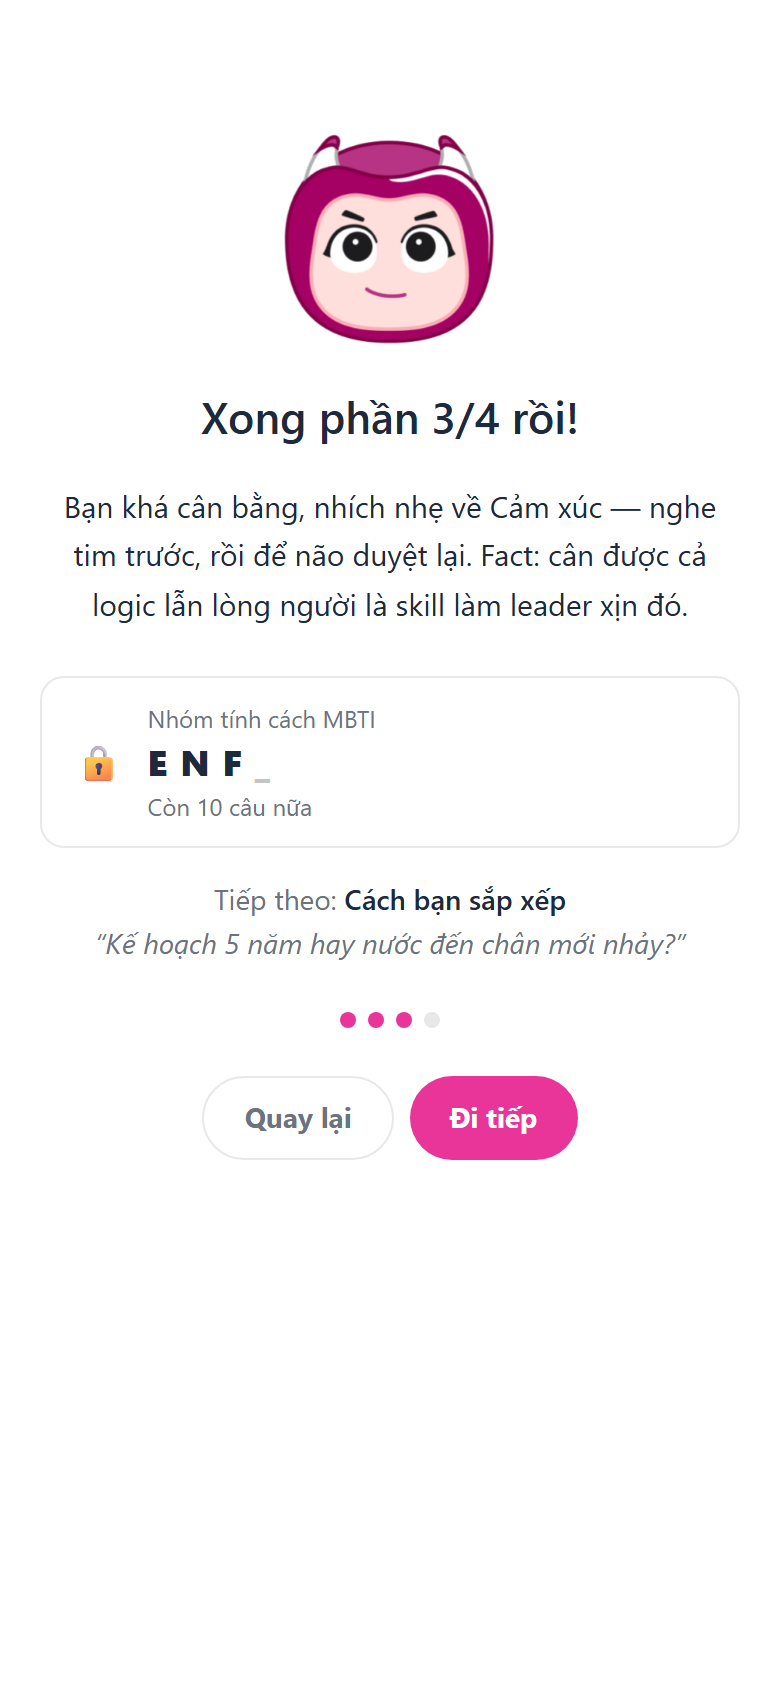
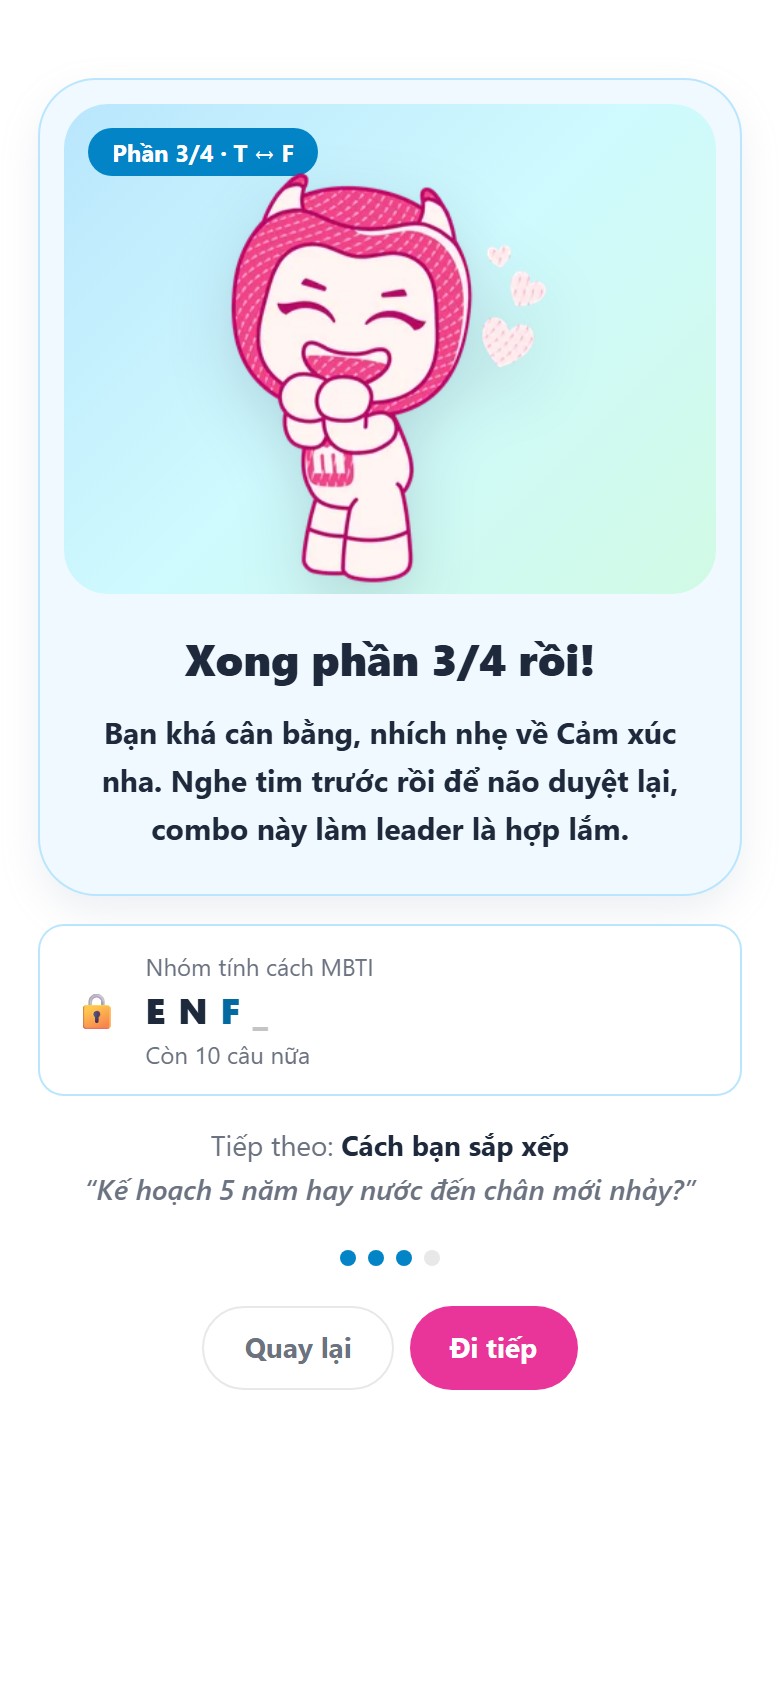
feat(interlude): themed per-part card, full mascot, bold Gen Z copy
Each break screen now wears the landing card of the part just finished:
same bg, ring, well gradient, badge ("Phần n/4 · E ↔ I") and full-body
mascot, which pops in and floats; the copy fades up after it (all off
under reduced motion). The new letter in the MBTI box and the progress
dots take the part colour. Conclusions are bold and rewritten in a Gen Z
voice with no dashes between sentences (pinned by a test); the review
doc's tables are regenerated from interludeCopy.ts.

diff --git a/web/app/personal-definition/_components/InterludeView.tsx b/web/app/personal-definition/_components/InterludeView.tsx
@@ -4,8 +4,9 @@ import { Button } from "@/components/worker/ui/Button";
 import { PART_COUNT, PART_SIZE, PART_TITLES } from "../_lib/parts";
 import { QUESTION_COUNT } from "../_lib/likert";
 import { PART_HOOKS, RESULT_HOOK } from "../_lib/interludeCopy";
+import { PART_THEMES } from "../_lib/partTheme";
 import type { NumerologyResult, ZodiacResult } from "../_lib/types";
-import { FACES, srcOf, type FaceName } from "../_lib/mascot";
+import { srcOf } from "../_lib/mascot";
 import styles from "./mascot.module.css";
 
 type Props = {
@@ -31,7 +32,7 @@ function firstSentence(text: string): string {
 
 function TeaserRow({ badge, label, value }: { badge: string; label: string; value: string }) {
   return (
-    <div className="flex items-center gap-3 border border-worker-border rounded-worker-md px-4 py-3">
+    <div className="flex items-center gap-3 border border-worker-border rounded-worker-md px-4 py-3 bg-white">
       <span className="text-lg text-worker-primary shrink-0" aria-hidden>{badge}</span>
       <div className="flex flex-col text-left">
         <span className="text-xs text-worker-text-secondary">{label}</span>
@@ -42,37 +43,53 @@ function TeaserRow({ badge, label, value }: { badge: string; label: string; valu
 }
 
 /*
- * Colour rule: copy is neutral (text-primary / text-secondary). Pink is kept
- * for the primary button, the progress dots and one small accent — the
- * teaser badges (★, life-path number).
+ * Each break screen wears the landing card of the part just finished —
+ * same bg, ring, well gradient, badge and full-body mascot (PART_THEMES) —
+ * so "the card you tapped" and "the part you finished" read as one thing.
+ * Theme colours are runtime values, applied via inline style. Copy stays
+ * neutral and bold; pink remains on the primary button and teaser badges.
  */
-
-/** One mascot face per boundary, index = part just finished. */
-const FACE_BY_PART: FaceName[] = ["laugh", "excited", "confident", "grin"];
-
 export function InterludeView({ part, summary, letters, preview, onContinue, onBack }: Props) {
-  const face = FACE_BY_PART[part] ?? FACE_BY_PART[FACE_BY_PART.length - 1]!;
+  const t = PART_THEMES[part] ?? PART_THEMES[PART_THEMES.length - 1]!;
   const isLast = part >= PART_COUNT - 1;
   const known = letters.filter(Boolean).length;
   const remaining = QUESTION_COUNT - (part + 1) * PART_SIZE;
 
   return (
-    <div className="flex flex-col items-center text-center gap-4 py-10">
-      <img
-        src={srcOf(FACES[face])}
-        alt=""
-        className={`w-28 h-28 object-contain ${styles.bounceIn}`}
-      />
+    <div className="flex flex-col items-center text-center gap-4 py-4">
+      <section
+        data-testid="interlude-card"
+        className="w-full p-3 rounded-[28px]"
+        style={{ backgroundColor: t.bg, boxShadow: `0 0 0 1px ${t.ring}, 0 8px 20px rgba(148,163,184,.18)` }}
+      >
+        <div
+          className="relative aspect-[4/3] rounded-[22px] overflow-hidden flex items-end justify-center"
+          style={{ background: t.well }}
+        >
+          <span
+            className="absolute left-3 top-3 px-3 py-1 rounded-full text-xs font-bold"
+            style={{ backgroundColor: t.badge, color: t.badgeInk }}
+          >
+            Phần {part + 1}/{PART_COUNT} · {t.letters[0]} ↔ {t.letters[1]}
+          </span>
+          <img
+            src={srcOf(t.mascot)}
+            alt=""
+            className={`h-[86%] w-auto object-contain drop-shadow-[0_12px_16px_rgba(15,23,42,.14)] ${styles.popIn}`}
+          />
+        </div>
 
-      <h2 className="text-[22px] font-semibold text-worker-text-primary">
-        Xong phần {part + 1}/{PART_COUNT} rồi!
-      </h2>
+        <div className={`px-2 pt-4 pb-2 ${styles.fadeUp}`}>
+          <h2 className="text-[22px] font-extrabold text-worker-text-primary">
+            Xong phần {part + 1}/{PART_COUNT} rồi!
+          </h2>
+          <p data-testid="interlude-line" className="mt-2 text-[15px] leading-relaxed font-bold text-worker-text-primary">
+            {summary}
+          </p>
+        </div>
+      </section>
 
-      <p data-testid="interlude-line" className="text-[15px] leading-relaxed text-worker-text-primary max-w-[340px]">
-        {summary}
-      </p>
-
-      <div className="w-full flex flex-col gap-2 mt-2">
+      <div className={`w-full flex flex-col gap-2 ${styles.fadeUpLate}`}>
         {preview && (
           <div data-testid="teaser" className="flex flex-col gap-2">
             <TeaserRow
@@ -92,7 +109,8 @@ export function InterludeView({ part, summary, letters, preview, onContinue, onB
             mascot, breakdown) stays locked until the result screen. */}
         <div
           data-testid="teaser-locked"
-          className="flex items-center gap-3 border border-worker-border rounded-worker-md px-4 py-3"
+          className="flex items-center gap-3 rounded-worker-md px-4 py-3 bg-white"
+          style={{ boxShadow: `0 0 0 1px ${t.ring}` }}
         >
           <span className="text-lg shrink-0" aria-hidden>{isLast ? "🔓" : "🔒"}</span>
           <div className="flex flex-col text-left">
@@ -103,7 +121,12 @@ export function InterludeView({ part, summary, letters, preview, onContinue, onB
               className="flex gap-1.5 text-lg font-extrabold tracking-wide text-worker-text-primary"
             >
               {letters.map((l, i) => (
-                <span key={i} aria-hidden className={l ? "" : "text-worker-text-disabled"}>
+                <span
+                  key={i}
+                  aria-hidden
+                  className={l ? "" : "text-worker-text-disabled"}
+                  style={i === part && l ? { color: t.chip } : undefined}
+                >
                   {l ?? "_"}
                 </span>
               ))}
@@ -113,31 +136,32 @@ export function InterludeView({ part, summary, letters, preview, onContinue, onB
             </span>
           </div>
         </div>
+
+        {/* The hook: what the next screen promises, to pull the next tap. */}
+        <div data-testid="next-hook" className="flex flex-col gap-0.5 mt-2 mx-auto max-w-[320px]">
+          <p className="text-sm text-worker-text-secondary">
+            Tiếp theo:{" "}
+            <span className="font-bold text-worker-text-primary">
+              {isLast ? "Kết quả của bạn" : PART_TITLES[part + 1]}
+            </span>
+          </p>
+          <p className="text-sm font-semibold italic text-worker-text-secondary">
+            {isLast ? RESULT_HOOK : `“${PART_HOOKS[part + 1]}”`}
+          </p>
+        </div>
       </div>
 
-      {/* The hook: what the next screen promises, to pull the next tap. */}
-      <div data-testid="next-hook" className="flex flex-col gap-0.5 max-w-[320px]">
-        <p className="text-sm text-worker-text-secondary">
-          Tiếp theo:{" "}
-          <span className="font-semibold text-worker-text-primary">
-            {isLast ? "Kết quả của bạn" : PART_TITLES[part + 1]}
-          </span>
-        </p>
-        <p className="text-sm italic text-worker-text-secondary">
-          {isLast ? RESULT_HOOK : `“${PART_HOOKS[part + 1]}”`}
-        </p>
-      </div>
-
-      <div className="flex items-center gap-1.5 mt-2" aria-hidden>
+      <div className="flex items-center gap-1.5 mt-1" aria-hidden>
         {Array.from({ length: PART_COUNT }, (_, i) => (
           <span
             key={i}
-            className={`w-2 h-2 rounded-full ${i <= part ? "bg-worker-primary" : "bg-worker-border"}`}
+            className="w-2 h-2 rounded-full"
+            style={{ backgroundColor: i <= part ? t.badge : "var(--color-worker-border)" }}
           />
         ))}
       </div>
 
-      <div className="flex gap-2 mt-2">
+      <div className="flex gap-2 mt-1">
         <Button variant="secondary" onClick={onBack}>
           Quay lại
         </Button>

diff --git a/web/app/personal-definition/_lib/interludeCopy.ts b/web/app/personal-definition/_lib/interludeCopy.ts
@@ -3,41 +3,42 @@
  * edit both together. `{n}` is the number of the part's 10 answers that
  * leaned toward the revealed letter (only used on a clear lean, n ≥ 7).
  *
- * Each line: one conclusion + one "fact". Facts restate the pole
- * definitions in questions.json; they are not statistics.
+ * Voice: Gen Z, two short sentences, no dashes between them (pinned by a
+ * test). The "fun fact" restates the pole definitions in questions.json;
+ * none of it is a statistic.
  */
 export const SUMMARY_COPY: Record<string, { clear: string; balanced: string }> = {
   E: {
-    clear: "Bạn nghiêng về Hướng ngoại ({n}/10) — đông người là pin đầy. Fact: dân Hướng ngoại hay nghĩ bằng miệng, nói ra rồi mới thấy rõ ý mình.",
-    balanced: "Bạn khá cân bằng, nhích nhẹ về Hướng ngoại — vui được, chill một mình cũng được. Fact: kiểu \"tuỳ mood\" này có tên hẳn hoi đó: ambivert.",
+    clear: "Bạn nghiêng hẳn về Hướng ngoại ({n}/10), đông người là pin full vạch. Fun fact: hội Hướng ngoại hay vừa nói vừa nghĩ, nói ra rồi mới biết mình nghĩ gì.",
+    balanced: "Bạn khá cân bằng, nhích nhẹ về Hướng ngoại nha. Quẩy được mà chill một mình cũng ok, kiểu này người ta gọi là ambivert đó.",
   },
   I: {
-    clear: "Bạn nghiêng về Hướng nội ({n}/10) — sạc pin bằng thời gian một mình. Fact: Hướng nội không phải là ngại người, chỉ là bạn nghĩ xong rồi mới nói.",
-    balanced: "Bạn khá cân bằng, nhích nhẹ về Hướng nội — đi tiệc được, nhưng về nhà vẫn thấy sướng hơn. Fact: kiểu \"tuỳ mood\" này có tên hẳn hoi đó: ambivert.",
+    clear: "Bạn nghiêng hẳn về Hướng nội ({n}/10), sạc pin bằng giờ me-time. Fun fact: hướng nội không phải là ngại người đâu, chỉ là bạn thích nghĩ kỹ rồi mới nói.",
+    balanced: "Bạn khá cân bằng, nhích nhẹ về Hướng nội nha. Đi tiệc vẫn vui nhưng về nhà nằm mới là chân ái, kiểu này người ta gọi là ambivert đó.",
   },
   S: {
-    clear: "Bạn nghiêng về Thực tế ({n}/10) — tin những gì thấy được, kiểm chứng được. Fact: team Thực tế là kiểu hỏi \"nguồn đâu?\" trước khi tin một cái tin hot.",
-    balanced: "Bạn khá cân bằng, nhích nhẹ về Thực tế — chân vẫn chạm đất nhưng đầu thỉnh thoảng bay. Fact: bạn đọc được cả chi tiết lẫn \"ý ngầm\", combo này hiếm phết.",
+    clear: "Bạn nghiêng hẳn về Thực tế ({n}/10), mắt thấy tai nghe mới tin. Fun fact: thấy tin hot là bạn hỏi \"nguồn đâu?\" đầu tiên.",
+    balanced: "Bạn khá cân bằng, nhích nhẹ về Thực tế nha. Chân chạm đất mà đầu thỉnh thoảng vẫn bay, đọc được cả chi tiết lẫn ý ngầm luôn.",
   },
   N: {
-    clear: "Bạn nghiêng về Trực giác ({n}/10) — thấy được bức tranh lớn sau mấy con số. Fact: team Trực giác hay hỏi \"nếu như…\", đầu lúc nào cũng mở 10 tab.",
-    balanced: "Bạn khá cân bằng, nhích nhẹ về Trực giác — mơ to nhưng vẫn check lại cho chắc. Fact: bạn đọc được cả chi tiết lẫn \"ý ngầm\", combo này hiếm phết.",
+    clear: "Bạn nghiêng hẳn về Trực giác ({n}/10), nhìn đâu cũng thấy bức tranh lớn. Fun fact: não bạn lúc nào cũng mở sẵn 10 tab \"lỡ như thì sao\".",
+    balanced: "Bạn khá cân bằng, nhích nhẹ về Trực giác nha. Mơ to nhưng vẫn check kỹ, đọc được cả chi tiết lẫn ý ngầm luôn.",
   },
   T: {
-    clear: "Bạn nghiêng về Lý trí ({n}/10) — não nhảy số trước khi tim kịp lên tiếng. Fact: Lý trí không có nghĩa là lạnh lùng, bạn chỉ muốn mọi thứ hợp lý và công bằng.",
-    balanced: "Bạn khá cân bằng, nhích nhẹ về Lý trí — phân tích kỹ nhưng vẫn để ý cảm xúc người khác. Fact: cân được cả logic lẫn lòng người là skill làm leader xịn đó.",
+    clear: "Bạn nghiêng hẳn về Lý trí ({n}/10), não nhảy số nhanh hơn tim. Fun fact: lý trí không phải lạnh lùng đâu, bạn chỉ muốn mọi thứ hợp lý và công bằng.",
+    balanced: "Bạn khá cân bằng, nhích nhẹ về Lý trí nha. Phân tích kỹ mà vẫn để ý cảm xúc người khác, combo này làm leader là hợp lắm.",
   },
   F: {
-    clear: "Bạn nghiêng về Cảm xúc ({n}/10) — quyết gì cũng nghĩ tới người trong cuộc trước. Fact: Cảm xúc không phải là dễ khóc, mà là bạn chọn theo giá trị mình tin.",
-    balanced: "Bạn khá cân bằng, nhích nhẹ về Cảm xúc — nghe tim trước, rồi để não duyệt lại. Fact: cân được cả logic lẫn lòng người là skill làm leader xịn đó.",
+    clear: "Bạn nghiêng hẳn về Cảm xúc ({n}/10), quyết gì cũng nghĩ tới người trong cuộc trước. Fun fact: cảm xúc không phải mau nước mắt, mà là bạn sống theo giá trị mình tin.",
+    balanced: "Bạn khá cân bằng, nhích nhẹ về Cảm xúc nha. Nghe tim trước rồi để não duyệt lại, combo này làm leader là hợp lắm.",
   },
   J: {
-    clear: "Bạn nghiêng về Nguyên tắc ({n}/10) — có kế hoạch là thấy yên tâm. Fact: gạch xong một dòng to-do list là kiểu sướng rất riêng của team Nguyên tắc.",
-    balanced: "Bạn khá cân bằng, nhích nhẹ về Nguyên tắc — thích có plan nhưng lệch plan cũng không sập. Fact: có plan A mà vẫn sẵn plan B là kiểu sống an toàn nhất.",
+    clear: "Bạn nghiêng hẳn về Nguyên tắc ({n}/10), có plan rõ ràng mới thấy yên tâm. Fun fact: gạch xong một dòng to-do list là đủ làm bạn vui cả buổi.",
+    balanced: "Bạn khá cân bằng, nhích nhẹ về Nguyên tắc nha. Thích có plan nhưng lệch plan cũng không sập, lúc nào cũng có sẵn plan B.",
   },
   P: {
-    clear: "Bạn nghiêng về Linh hoạt ({n}/10) — nước đến chân mới nhảy, mà nhảy vẫn đẹp. Fact: team Linh hoạt thích để ngỏ lựa chọn, vì biết đâu có option xịn hơn.",
-    balanced: "Bạn khá cân bằng, nhích nhẹ về Linh hoạt — ứng biến giỏi nhưng việc quan trọng vẫn lên lịch. Fact: có plan A mà vẫn sẵn plan B là kiểu sống an toàn nhất.",
+    clear: "Bạn nghiêng hẳn về Linh hoạt ({n}/10), nước đến chân mới nhảy mà nhảy vẫn đẹp. Fun fact: bạn thích để ngỏ lựa chọn, biết đâu lại có option xịn hơn.",
+    balanced: "Bạn khá cân bằng, nhích nhẹ về Linh hoạt nha. Ứng biến giỏi nhưng việc quan trọng vẫn lên lịch đàng hoàng, lúc nào cũng có sẵn plan B.",
   },
 };
 
@@ -53,4 +54,4 @@ export const PART_HOOKS = [
 ] as const;
 
 /** Hook on the last break screen, pulling toward the result. */
-export const RESULT_HOOK = "Đủ 4 chữ rồi — linh vật của bạn đang chờ được đánh thức!";
+export const RESULT_HOOK = "Đủ 4 chữ rồi, linh vật của bạn đang chờ được đánh thức!";

diff --git a/web/app/personal-definition/_components/mascot.module.css b/web/app/personal-definition/_components/mascot.module.css
@@ -19,19 +19,30 @@
 .popIn         { animation: pd-pop 320ms ease-out both, pd-float 3s ease-in-out 320ms infinite; }
 .bounceIn      { animation: pd-pop 320ms ease-out both; }
 
+@keyframes pd-fade-up {
+  from { opacity: 0; transform: translateY(10px); }
+  to   { opacity: 1; transform: none; }
+}
+
+/* Break-screen copy rises in after the mascot pops. */
+.fadeUp        { animation: pd-fade-up 420ms ease-out 180ms both; }
+.fadeUpLate    { animation: pd-fade-up 420ms ease-out 360ms both; }
+
 /* The rasteriser records a single frame. Anything mid-animation exports
    crooked, so capture pins every mascot back to its resting transform. */
 :global([data-capturing]) .pulseOnChange,
 :global([data-capturing]) .float,
 :global([data-capturing]) .popIn,
-:global([data-capturing]) .bounceIn {
+:global([data-capturing]) .bounceIn,
+:global([data-capturing]) .fadeUp,
+:global([data-capturing]) .fadeUpLate {
   animation: none !important;
   transform: none !important;
   opacity: 1 !important;
 }
 
 @media (prefers-reduced-motion: reduce) {
-  .pulseOnChange, .float, .popIn, .bounceIn {
+  .pulseOnChange, .float, .popIn, .bounceIn, .fadeUp, .fadeUpLate {
     animation: none !important;
     transform: none !important;
     opacity: 1 !important;

diff --git a/web/app/personal-definition/_components/__tests__/InterludeView.test.tsx b/web/app/personal-definition/_components/__tests__/InterludeView.test.tsx
@@ -119,3 +119,21 @@ describe("InterludeView colour", () => {
     for (const el of pink) expect(el).toHaveAttribute("aria-hidden");
   });
 });
+
+describe("InterludeView part theme", () => {
+  it.each([0, 1, 2, 3])("part %i wears its landing card's colours and full mascot", async (part) => {
+    const { PART_THEMES } = await import("../../_lib/partTheme");
+    const { srcOf } = await import("../../_lib/mascot");
+    const t = PART_THEMES[part]!;
+    render(<InterludeView {...extra} part={part} onContinue={() => {}} onBack={() => {}} />);
+    const card = screen.getByTestId("interlude-card");
+    expect(card).toHaveStyle({ backgroundColor: t.bg });
+    expect(card.querySelector("img")).toHaveAttribute("src", srcOf(t.mascot));
+    expect(card).toHaveTextContent(`${t.letters[0]} ↔ ${t.letters[1]}`);
+  });
+
+  it("sets the conclusion in bold", () => {
+    render(<InterludeView {...extra} part={0} onContinue={() => {}} onBack={() => {}} />);
+    expect(screen.getByTestId("interlude-line").className).toContain("font-bold");
+  });
+});

diff --git a/web/app/personal-definition/_lib/__tests__/partSummary.test.ts b/web/app/personal-definition/_lib/__tests__/partSummary.test.ts
@@ -87,3 +87,10 @@ describe("interlude copy", () => {
     expect(RESULT_HOOK.length).toBeGreaterThan(0);
   });
 });
+
+describe("interlude copy voice", () => {
+  it("never strings sentences together with a dash", () => {
+    const lines = [...Object.values(SUMMARY_COPY).flatMap((c) => [c.clear, c.balanced]), RESULT_HOOK];
+    for (const line of lines) expect(line).not.toMatch(/[—–]| - /);
+  });
+});

diff --git a/PROGRESS.md b/PROGRESS.md
@@ -17,7 +17,7 @@ Branch: `feature/personal-definition/ui`. North Star: see `CLAUDE.md`.
 Kiểm tra trong trình duyệt (Playwright, bản build production): đo được 2.5 thẻ ở cả 3 viewport, CTA nằm trong màn hình; sticky ẩn ở hero / hiện khi CTA khuất / ẩn ở cuối trang; tự cuộn chạy, dừng tại chỗ khi chạm, không chạy khi bật reduced motion; tap và Enter trên thẻ đều mở form.
 Ảnh trước/sau: `docs/screenshots/2026-10-31-feedback-round/`.
 
-Thêm sau đó: câu hỏi chữ đen đậm (`16c4792`).
+Thêm sau đó: câu hỏi chữ đen đậm (`16c4792`); form chỉ hỏi tên hiển thị, bỏ họ tên đầy đủ (`3e2ba30`); màn nghỉ dùng màu + mascot đầy đủ của thẻ phần, có animation, chữ đậm, copy Gen Z không gạch ngang.
 
 **Chưa deploy lên Vercel.** Bản mới đang chạy ở localhost:3000 (production build). Live site vẫn là bản 10-01.
 
